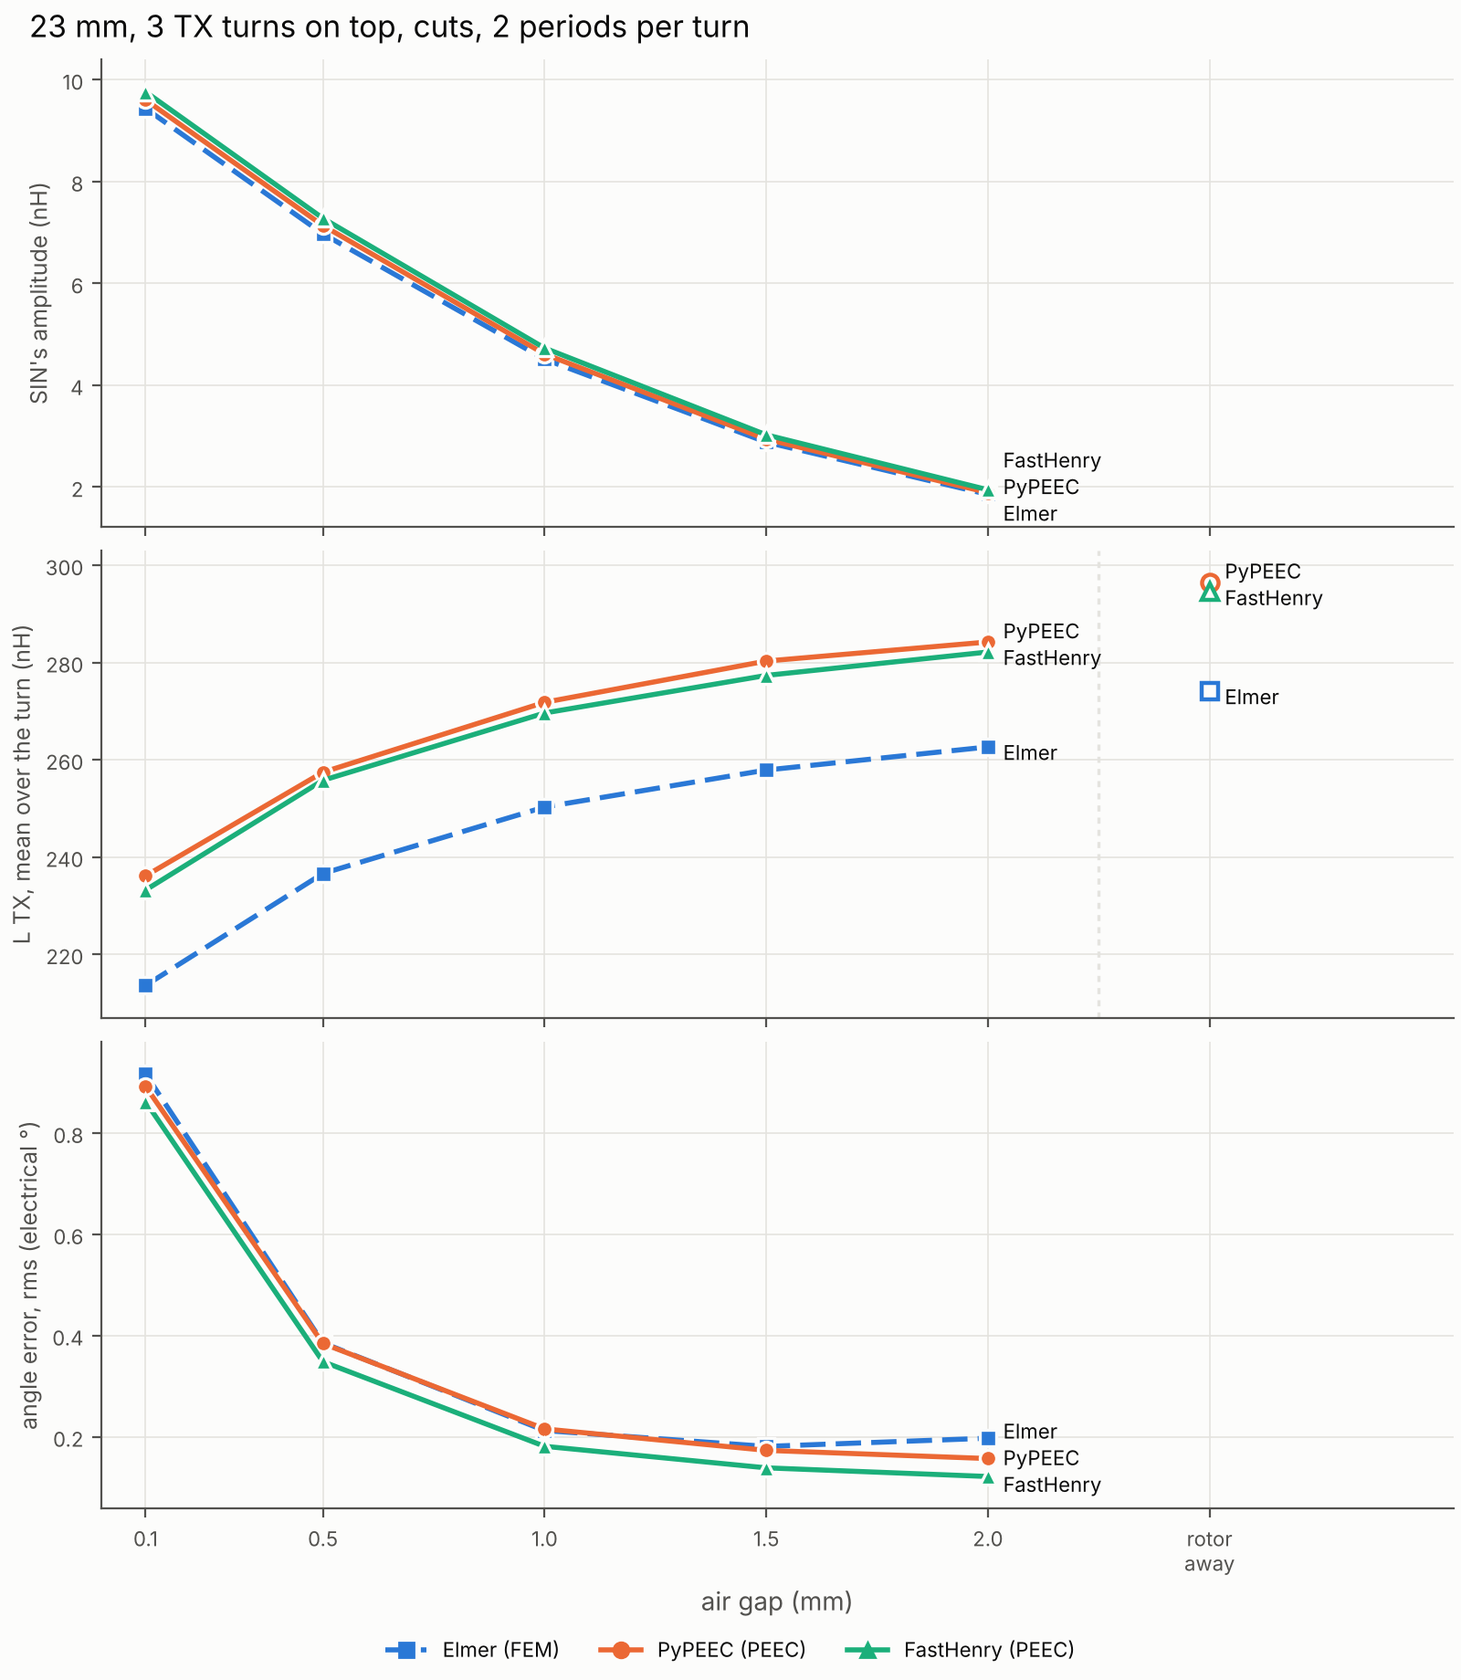
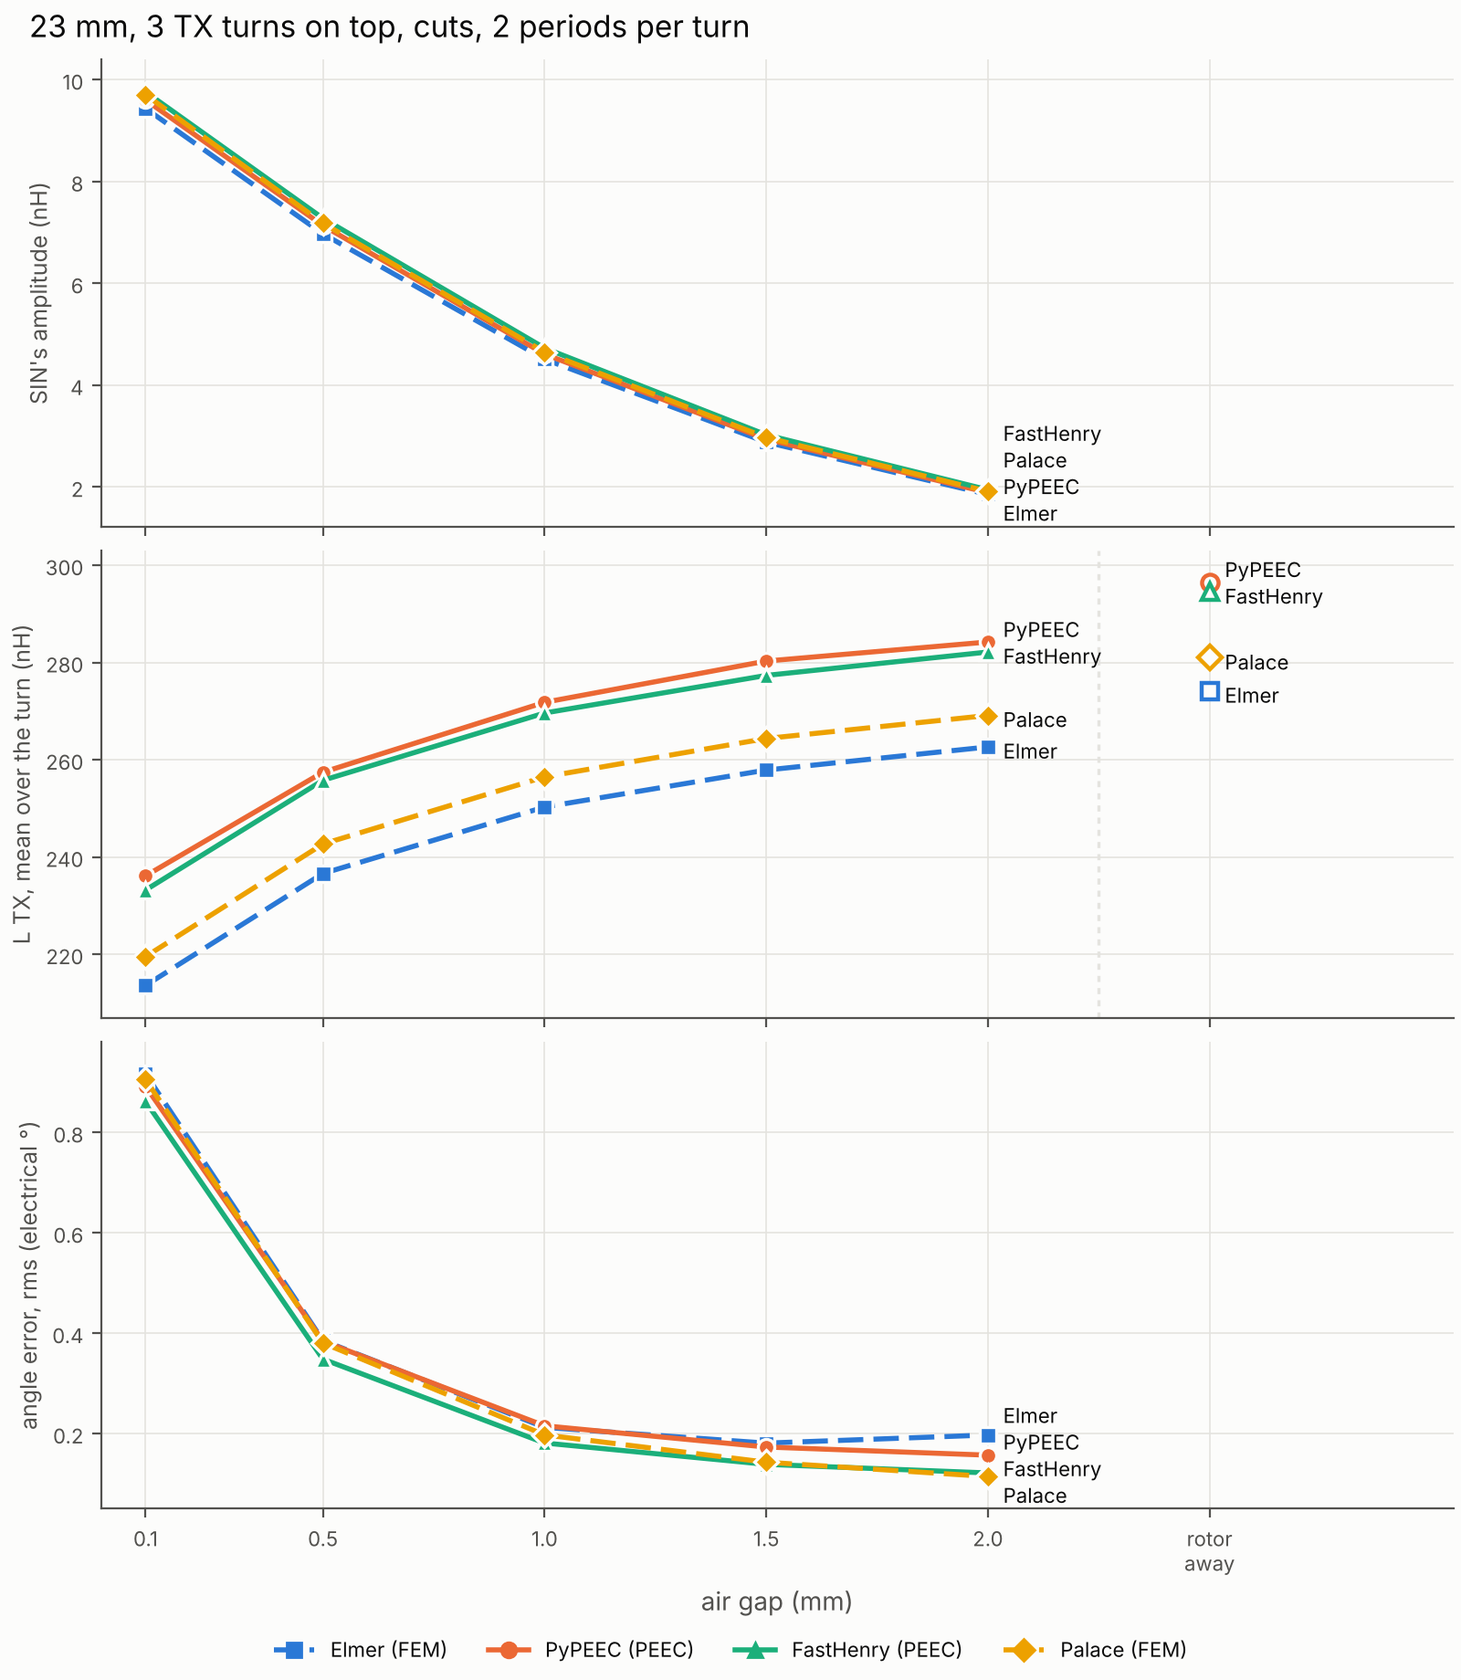
Add Palace's S0d2: every solver has now finished all six boards

diff --git a/README.md b/README.md
@@ -7,7 +7,7 @@ KESE exports a KiCad board's copper and stackup for electromagnetic solvers. Fou
 | Elmer | FEM (finite elements, the A-V eddy-current formulation) | `Elmer_Integration` | 6 | 280 | 280 |
 | PyPEEC | PEEC (partial elements on voxels, FFT-accelerated) | `PyPEEC_Integration` | 6 | 280 | 280 |
 | FastHenry | PEEC (partial elements on filaments, direct solve) | `FastHenry_Integration` | 6 | 280 | 280 |
-| Palace | FEM (finite elements, the frequency-domain Maxwell solver) | `Palace_Integration` | 5 (still solving; 25 of 30 gaps) | 200 | 200 |
+| Palace | FEM (finite elements, the frequency-domain Maxwell solver) | `Palace_Integration` | 6 | 280 | 280 |
 | Theory | hand formulas: Neumann's integral over the TX copper, its DC resistance ([Formulas](#formulas)) | this one (`scripts/theory.py`) | 6 | — | — |
 
 Each integration branch keeps its own solver's results, settings and checks, and knows nothing of the others. The numbers here are read from those branches unchanged by `scripts/collect.py`. The two FEM solvers mesh the air around the copper and close it at an outer boundary; the two PEEC solvers model only the copper, and the air's field comes from the free-space formulas, with no mesh and no boundary.
@@ -21,7 +21,7 @@ This page shows one board, S0d2_1x_OD23_2L_tiny_TX3top_Cut. Every board has its 
 | [S0_1x_OD22_2L_tiny_TXtop](Comparisons/S0_1x_OD22_2L_tiny_TXtop.md) | OD22 TXtop: the TX two turns on the top layer around S0's own RX coils, the board grown to 22.2 mm | 3.26 / 3.38 / 3.43 / 3.37 | 143.2 to 147.4 |
 | [S0_1x_OD22_2L_tiny_TXtop_Cut](Comparisons/S0_1x_OD22_2L_tiny_TXtop_Cut.md) | OD22 Cut: the 22 mm board with SIN and COS opened by a 0.2 mm cut in a top trace instead of a left-out via | 3.26 / 3.34 / 3.40 / 3.37 | 143.2 to 147.4 |
 | [S0_1x_OD23_2L_tiny_TX3top_Cut](Comparisons/S0_1x_OD23_2L_tiny_TX3top_Cut.md) | OD23 Cut: the TX three turns on the top layer around S0's RX coils, 23.4 mm, opened by cuts | 4.88 / 4.98 / 5.07 / 5.03 | 289.2 to 295.6 |
-| [S0d2_1x_OD23_2L_tiny_TX3top_Cut](Comparisons/S0d2_1x_OD23_2L_tiny_TX3top_Cut.md) | S0d2: the three-turn 23 mm board with two electrical periods per turn and a rotor of two sectors, so the curves repeat every 180°; solved at 16 angles over the whole turn | 4.51 / 4.61 / 4.73 / — | 289.2 to 295.6 |
+| [S0d2_1x_OD23_2L_tiny_TX3top_Cut](Comparisons/S0d2_1x_OD23_2L_tiny_TX3top_Cut.md) | S0d2: the three-turn 23 mm board with two electrical periods per turn and a rotor of two sectors, so the curves repeat every 180°; solved at 16 angles over the whole turn | 4.51 / 4.61 / 4.73 / 4.65 | 289.2 to 295.6 |
 
 There is no hand formula for the SIN amplitude; the Theory column gives the range L TX must lie in with the rotor away (see [Formulas](#formulas)).
 
@@ -34,20 +34,21 @@ There is no hand formula for the SIN amplitude; the Theory column gives the rang
 | Elmer | 5 | 80 | 80 |
 | PyPEEC | 5 | 80 | 80 |
 | FastHenry | 5 | 80 | 80 |
-| Palace | 0 (still solving) | 0 | 0 |
+| Palace | 5 | 80 | 80 |
 | Theory | worked out from the copper by hand formulas, nothing to solve | — | — |
 
 Against FastHenry, the yardstick (the closest to the reference on the proof boards):
 
 - **Elmer** (FEM): the coupling (SIN's and COS's amplitude) is 4.3 % under FastHenry's on average over the 5 gaps both have finished (−4.8 to −3.3 %); L TX is 7.4 % under (−8.4 to −6.9 %); the rms angle error is within 0.08° of FastHenry's (electrical degrees).
 - **PyPEEC** (PEEC): the coupling (SIN's and COS's amplitude) is 2.2 % under FastHenry's on average over the 5 gaps both have finished (−2.8 to −1.4 %); L TX is 0.9 % over (+0.6 to +1.3 %); the rms angle error is within 0.04° of FastHenry's (electrical degrees).
-- **Palace** has not finished a gap of this board yet; it is still solving.
+- **Palace** (FEM): the coupling (SIN's and COS's amplitude) is 1.4 % under FastHenry's on average over the 5 gaps both have finished (−1.7 to −0.6 %); L TX is 5.0 % under (−5.9 to −4.6 %); the rms angle error is within 0.04° of FastHenry's (electrical degrees).
 
 Against the hand values (the Theory rows, worked out in [Formulas](#formulas)): with the rotor away, L TX has to lie between about 289.2 nH (all the current at the copper's surface) and 295.6 nH (its DC value, the most it can be at any frequency), and R TX can be no less than its DC resistance, 379.4 mΩ.
 
 - **Elmer**: L TX with the rotor away 274.2 nH, 5.2 % under the high-frequency limit; R TX 438 mΩ, 15.3 % over its DC value.
 - **PyPEEC**: L TX with the rotor away 296.4 nH, 0.3 % over the DC value, the most it can be; R TX 475 mΩ, 25.2 % over its DC value.
 - **FastHenry**: L TX with the rotor away 294.6 nH, inside the hand values; R TX 413 mΩ, 8.9 % over its DC value.
+- **Palace**: L TX with the rotor away 281.0 nH, 2.8 % under the high-frequency limit; R TX 445 mΩ, 17.2 % over its DC value.
 
 ![S0d2 against the air gap](charts/S0d2_1x_OD23_2L_tiny_TX3top_Cut.webp)
 
@@ -63,6 +64,7 @@ Against the hand values (the Theory rows, worked out in [Formulas](#formulas)): 
 | Elmer | 4.511 | 4.514 | 250.3 | 274.2 | 460 | 0.212 | 0.440 | 16 |
 | PyPEEC | 4.613 | 4.627 | 271.8 | 296.4 | 496 | 0.216 | 0.434 | 16 |
 | FastHenry | 4.730 | 4.736 | 269.6 | 294.6 | 436 | 0.181 | 0.331 | 16 |
+| Palace | 4.652 | 4.657 | 256.5 | 281.0 | 468 | 0.198 | 0.355 | 16 |
 
 ### Every air gap
 
@@ -70,65 +72,65 @@ In the Theory column: L TX can be no more than its DC value and R TX no less tha
 
 **SIN's amplitude (nH)**
 
-| Air gap | Elmer | PyPEEC | FastHenry | Theory |
-|---|---|---|---|---|
-| 0.1 mm | 9.436 | 9.604 | 9.762 | — |
-| 0.5 mm | 6.974 | 7.137 | 7.279 | — |
-| 1 mm | 4.511 | 4.613 | 4.730 | — |
-| 1.5 mm | 2.882 | 2.940 | 3.026 | — |
-| 2 mm | 1.856 | 1.891 | 1.946 | — |
+| Air gap | Elmer | PyPEEC | FastHenry | Palace | Theory |
+|---|---|---|---|---|---|
+| 0.1 mm | 9.436 | 9.604 | 9.762 | 9.706 | — |
+| 0.5 mm | 6.974 | 7.137 | 7.279 | 7.183 | — |
+| 1 mm | 4.511 | 4.613 | 4.730 | 4.652 | — |
+| 1.5 mm | 2.882 | 2.940 | 3.026 | 2.973 | — |
+| 2 mm | 1.856 | 1.891 | 1.946 | 1.915 | — |
 
 **COS's amplitude (nH)**
 
-| Air gap | Elmer | PyPEEC | FastHenry | Theory |
-|---|---|---|---|---|
-| 0.1 mm | 9.437 | 9.625 | 9.766 | — |
-| 0.5 mm | 6.976 | 7.157 | 7.285 | — |
-| 1 mm | 4.514 | 4.627 | 4.736 | — |
-| 1.5 mm | 2.884 | 2.950 | 3.030 | — |
-| 2 mm | 1.857 | 1.898 | 1.950 | — |
+| Air gap | Elmer | PyPEEC | FastHenry | Palace | Theory |
+|---|---|---|---|---|---|
+| 0.1 mm | 9.437 | 9.625 | 9.766 | 9.706 | — |
+| 0.5 mm | 6.976 | 7.157 | 7.285 | 7.188 | — |
+| 1 mm | 4.514 | 4.627 | 4.736 | 4.657 | — |
+| 1.5 mm | 2.884 | 2.950 | 3.030 | 2.978 | — |
+| 2 mm | 1.857 | 1.898 | 1.950 | 1.918 | — |
 
 **L TX, mean over the turn (nH)**
 
-| Air gap | Elmer | PyPEEC | FastHenry | Theory |
-|---|---|---|---|---|
-| 0.1 mm | 213.6 | 236.1 | 233.2 | ≤ 295.6 |
-| 0.5 mm | 236.6 | 257.4 | 255.8 | ≤ 295.6 |
-| 1 mm | 250.3 | 271.8 | 269.6 | ≤ 295.6 |
-| 1.5 mm | 257.9 | 280.3 | 277.4 | ≤ 295.6 |
-| 2 mm | 262.6 | 284.2 | 282.2 | ≤ 295.6 |
+| Air gap | Elmer | PyPEEC | FastHenry | Palace | Theory |
+|---|---|---|---|---|---|
+| 0.1 mm | 213.6 | 236.1 | 233.2 | 219.5 | ≤ 295.6 |
+| 0.5 mm | 236.6 | 257.4 | 255.8 | 242.7 | ≤ 295.6 |
+| 1 mm | 250.3 | 271.8 | 269.6 | 256.5 | ≤ 295.6 |
+| 1.5 mm | 257.9 | 280.3 | 277.4 | 264.4 | ≤ 295.6 |
+| 2 mm | 262.6 | 284.2 | 282.2 | 269.1 | ≤ 295.6 |
 
 **R TX, mean over the turn (mΩ)**
 
-| Air gap | Elmer | PyPEEC | FastHenry | Theory |
-|---|---|---|---|---|
-| 0.1 mm | 509 | 540 | 475 | ≥ 379.4 |
-| 0.5 mm | 473 | 508 | 447 | ≥ 379.4 |
-| 1 mm | 460 | 496 | 436 | ≥ 379.4 |
-| 1.5 mm | 453 | 490 | 430 | ≥ 379.4 |
-| 2 mm | 449 | 486 | 426 | ≥ 379.4 |
+| Air gap | Elmer | PyPEEC | FastHenry | Palace | Theory |
+|---|---|---|---|---|---|
+| 0.1 mm | 509 | 540 | 475 | 517 | ≥ 379.4 |
+| 0.5 mm | 473 | 508 | 447 | 481 | ≥ 379.4 |
+| 1 mm | 460 | 496 | 436 | 468 | ≥ 379.4 |
+| 1.5 mm | 453 | 490 | 430 | 462 | ≥ 379.4 |
+| 2 mm | 449 | 486 | 426 | 457 | ≥ 379.4 |
 
 **Angle error, rms (electrical °)**
 
-| Air gap | Elmer | PyPEEC | FastHenry | Theory |
-|---|---|---|---|---|
-| 0.1 mm | 0.917 | 0.892 | 0.862 | 0 |
-| 0.5 mm | 0.386 | 0.384 | 0.349 | 0 |
-| 1 mm | 0.212 | 0.216 | 0.181 | 0 |
-| 1.5 mm | 0.181 | 0.173 | 0.139 | 0 |
-| 2 mm | 0.197 | 0.157 | 0.122 | 0 |
+| Air gap | Elmer | PyPEEC | FastHenry | Palace | Theory |
+|---|---|---|---|---|---|
+| 0.1 mm | 0.917 | 0.892 | 0.862 | 0.906 | 0 |
+| 0.5 mm | 0.386 | 0.384 | 0.349 | 0.381 | 0 |
+| 1 mm | 0.212 | 0.216 | 0.181 | 0.198 | 0 |
+| 1.5 mm | 0.181 | 0.173 | 0.139 | 0.143 | 0 |
+| 2 mm | 0.197 | 0.157 | 0.122 | 0.115 | 0 |
 
 ### Against FastHenry, gap by gap
 
 Each solver's value over FastHenry's at the same gap: SIN's amplitude, and in brackets L TX. In the Theory column, in brackets, the most L TX can be (its DC value) over FastHenry's L TX; there is no hand value for the amplitude.
 
-| Air gap | Elmer | PyPEEC | Theory |
-|---|---|---|---|
-| 0.1 mm | 0.967 (0.916) | 0.984 (1.013) | — (≤ 1.268) |
-| 0.5 mm | 0.958 (0.925) | 0.981 (1.006) | — (≤ 1.156) |
-| 1 mm | 0.954 (0.928) | 0.975 (1.008) | — (≤ 1.096) |
-| 1.5 mm | 0.953 (0.930) | 0.972 (1.011) | — (≤ 1.066) |
-| 2 mm | 0.953 (0.931) | 0.972 (1.007) | — (≤ 1.048) |
+| Air gap | Elmer | PyPEEC | Palace | Theory |
+|---|---|---|---|---|
+| 0.1 mm | 0.967 (0.916) | 0.984 (1.013) | 0.994 (0.941) | — (≤ 1.268) |
+| 0.5 mm | 0.958 (0.925) | 0.981 (1.006) | 0.987 (0.949) | — (≤ 1.156) |
+| 1 mm | 0.954 (0.928) | 0.975 (1.008) | 0.983 (0.951) | — (≤ 1.096) |
+| 1.5 mm | 0.953 (0.930) | 0.972 (1.011) | 0.983 (0.953) | — (≤ 1.066) |
+| 2 mm | 0.953 (0.931) | 0.972 (1.007) | 0.984 (0.954) | — (≤ 1.048) |
 
 ### The hand values and the generator's estimates
 
@@ -141,6 +143,7 @@ The Theory row is worked out from the TX copper alone (see [Formulas](#formulas)
 | Elmer | 274.2 | 5.2 % under the high-frequency limit | −6.1 % | 213.6 | 250.3 | 438 |
 | PyPEEC | 296.4 | 0.3 % over the DC value, the most it can be | +1.5 % | 236.1 | 271.8 | 475 |
 | FastHenry | 294.6 | inside the hand values | +0.9 % | 233.2 | 269.6 | 413 |
+| Palace | 281.0 | 2.8 % under the high-frequency limit | −3.8 % | 219.5 | 256.5 | 445 |
 
 ### Time and memory
 
@@ -151,9 +154,10 @@ Each branch records the wall time and the peak memory of every solve. They all r
 | Elmer | 382 | 217 to 583 | 13.3 |
 | PyPEEC | 305 | 184 to 678 | 1.7 to 3.5 |
 | FastHenry | 245 | 212 to 269 | 1.1 |
+| Palace | 214 | 141 to 253 | 8.0 to 12.9 |
 | Theory | 44 (once for the board: both of Neumann's sums) | — | 2.0 |
 
-A receiver whose plus terminal sits on the other side in one branch comes out turned over; here Elmer COS, PyPEEC COS is turned back to match FastHenry. Amplitudes and angle errors are the same either way.
+A receiver whose plus terminal sits on the other side in one branch comes out turned over; here Elmer COS, Palace COS, Palace SIN, PyPEEC COS is turned back to match FastHenry. Amplitudes and angle errors are the same either way.
 
 ## The proof boards
 

diff --git a/Comparisons/S0d2_1x_OD23_2L_tiny_TX3top_Cut.md b/Comparisons/S0d2_1x_OD23_2L_tiny_TX3top_Cut.md
@@ -9,20 +9,21 @@
 | Elmer | 5 | 80 | 80 |
 | PyPEEC | 5 | 80 | 80 |
 | FastHenry | 5 | 80 | 80 |
-| Palace | 0 (still solving) | 0 | 0 |
+| Palace | 5 | 80 | 80 |
 | Theory | worked out from the copper by hand formulas, nothing to solve | — | — |
 
 Against FastHenry, the yardstick (the closest to the reference on the proof boards):
 
 - **Elmer** (FEM): the coupling (SIN's and COS's amplitude) is 4.3 % under FastHenry's on average over the 5 gaps both have finished (−4.8 to −3.3 %); L TX is 7.4 % under (−8.4 to −6.9 %); the rms angle error is within 0.08° of FastHenry's (electrical degrees).
 - **PyPEEC** (PEEC): the coupling (SIN's and COS's amplitude) is 2.2 % under FastHenry's on average over the 5 gaps both have finished (−2.8 to −1.4 %); L TX is 0.9 % over (+0.6 to +1.3 %); the rms angle error is within 0.04° of FastHenry's (electrical degrees).
-- **Palace** has not finished a gap of this board yet; it is still solving.
+- **Palace** (FEM): the coupling (SIN's and COS's amplitude) is 1.4 % under FastHenry's on average over the 5 gaps both have finished (−1.7 to −0.6 %); L TX is 5.0 % under (−5.9 to −4.6 %); the rms angle error is within 0.04° of FastHenry's (electrical degrees).
 
 Against the hand values (the Theory rows, worked out in [Formulas](#formulas)): with the rotor away, L TX has to lie between about 289.2 nH (all the current at the copper's surface) and 295.6 nH (its DC value, the most it can be at any frequency), and R TX can be no less than its DC resistance, 379.4 mΩ.
 
 - **Elmer**: L TX with the rotor away 274.2 nH, 5.2 % under the high-frequency limit; R TX 438 mΩ, 15.3 % over its DC value.
 - **PyPEEC**: L TX with the rotor away 296.4 nH, 0.3 % over the DC value, the most it can be; R TX 475 mΩ, 25.2 % over its DC value.
 - **FastHenry**: L TX with the rotor away 294.6 nH, inside the hand values; R TX 413 mΩ, 8.9 % over its DC value.
+- **Palace**: L TX with the rotor away 281.0 nH, 2.8 % under the high-frequency limit; R TX 445 mΩ, 17.2 % over its DC value.
 
 ![S0d2 against the air gap](../charts/S0d2_1x_OD23_2L_tiny_TX3top_Cut.webp)
 
@@ -38,6 +39,7 @@ Against the hand values (the Theory rows, worked out in [Formulas](#formulas)): 
 | Elmer | 4.511 | 4.514 | 250.3 | 274.2 | 460 | 0.212 | 0.440 | 16 |
 | PyPEEC | 4.613 | 4.627 | 271.8 | 296.4 | 496 | 0.216 | 0.434 | 16 |
 | FastHenry | 4.730 | 4.736 | 269.6 | 294.6 | 436 | 0.181 | 0.331 | 16 |
+| Palace | 4.652 | 4.657 | 256.5 | 281.0 | 468 | 0.198 | 0.355 | 16 |
 
 ## Every air gap
 
@@ -45,65 +47,65 @@ In the Theory column: L TX can be no more than its DC value and R TX no less tha
 
 **SIN's amplitude (nH)**
 
-| Air gap | Elmer | PyPEEC | FastHenry | Theory |
-|---|---|---|---|---|
-| 0.1 mm | 9.436 | 9.604 | 9.762 | — |
-| 0.5 mm | 6.974 | 7.137 | 7.279 | — |
-| 1 mm | 4.511 | 4.613 | 4.730 | — |
-| 1.5 mm | 2.882 | 2.940 | 3.026 | — |
-| 2 mm | 1.856 | 1.891 | 1.946 | — |
+| Air gap | Elmer | PyPEEC | FastHenry | Palace | Theory |
+|---|---|---|---|---|---|
+| 0.1 mm | 9.436 | 9.604 | 9.762 | 9.706 | — |
+| 0.5 mm | 6.974 | 7.137 | 7.279 | 7.183 | — |
+| 1 mm | 4.511 | 4.613 | 4.730 | 4.652 | — |
+| 1.5 mm | 2.882 | 2.940 | 3.026 | 2.973 | — |
+| 2 mm | 1.856 | 1.891 | 1.946 | 1.915 | — |
 
 **COS's amplitude (nH)**
 
-| Air gap | Elmer | PyPEEC | FastHenry | Theory |
-|---|---|---|---|---|
-| 0.1 mm | 9.437 | 9.625 | 9.766 | — |
-| 0.5 mm | 6.976 | 7.157 | 7.285 | — |
-| 1 mm | 4.514 | 4.627 | 4.736 | — |
-| 1.5 mm | 2.884 | 2.950 | 3.030 | — |
-| 2 mm | 1.857 | 1.898 | 1.950 | — |
+| Air gap | Elmer | PyPEEC | FastHenry | Palace | Theory |
+|---|---|---|---|---|---|
+| 0.1 mm | 9.437 | 9.625 | 9.766 | 9.706 | — |
+| 0.5 mm | 6.976 | 7.157 | 7.285 | 7.188 | — |
+| 1 mm | 4.514 | 4.627 | 4.736 | 4.657 | — |
+| 1.5 mm | 2.884 | 2.950 | 3.030 | 2.978 | — |
+| 2 mm | 1.857 | 1.898 | 1.950 | 1.918 | — |
 
 **L TX, mean over the turn (nH)**
 
-| Air gap | Elmer | PyPEEC | FastHenry | Theory |
-|---|---|---|---|---|
-| 0.1 mm | 213.6 | 236.1 | 233.2 | ≤ 295.6 |
-| 0.5 mm | 236.6 | 257.4 | 255.8 | ≤ 295.6 |
-| 1 mm | 250.3 | 271.8 | 269.6 | ≤ 295.6 |
-| 1.5 mm | 257.9 | 280.3 | 277.4 | ≤ 295.6 |
-| 2 mm | 262.6 | 284.2 | 282.2 | ≤ 295.6 |
+| Air gap | Elmer | PyPEEC | FastHenry | Palace | Theory |
+|---|---|---|---|---|---|
+| 0.1 mm | 213.6 | 236.1 | 233.2 | 219.5 | ≤ 295.6 |
+| 0.5 mm | 236.6 | 257.4 | 255.8 | 242.7 | ≤ 295.6 |
+| 1 mm | 250.3 | 271.8 | 269.6 | 256.5 | ≤ 295.6 |
+| 1.5 mm | 257.9 | 280.3 | 277.4 | 264.4 | ≤ 295.6 |
+| 2 mm | 262.6 | 284.2 | 282.2 | 269.1 | ≤ 295.6 |
 
 **R TX, mean over the turn (mΩ)**
 
-| Air gap | Elmer | PyPEEC | FastHenry | Theory |
-|---|---|---|---|---|
-| 0.1 mm | 509 | 540 | 475 | ≥ 379.4 |
-| 0.5 mm | 473 | 508 | 447 | ≥ 379.4 |
-| 1 mm | 460 | 496 | 436 | ≥ 379.4 |
-| 1.5 mm | 453 | 490 | 430 | ≥ 379.4 |
-| 2 mm | 449 | 486 | 426 | ≥ 379.4 |
+| Air gap | Elmer | PyPEEC | FastHenry | Palace | Theory |
+|---|---|---|---|---|---|
+| 0.1 mm | 509 | 540 | 475 | 517 | ≥ 379.4 |
+| 0.5 mm | 473 | 508 | 447 | 481 | ≥ 379.4 |
+| 1 mm | 460 | 496 | 436 | 468 | ≥ 379.4 |
+| 1.5 mm | 453 | 490 | 430 | 462 | ≥ 379.4 |
+| 2 mm | 449 | 486 | 426 | 457 | ≥ 379.4 |
 
 **Angle error, rms (electrical °)**
 
-| Air gap | Elmer | PyPEEC | FastHenry | Theory |
-|---|---|---|---|---|
-| 0.1 mm | 0.917 | 0.892 | 0.862 | 0 |
-| 0.5 mm | 0.386 | 0.384 | 0.349 | 0 |
-| 1 mm | 0.212 | 0.216 | 0.181 | 0 |
-| 1.5 mm | 0.181 | 0.173 | 0.139 | 0 |
-| 2 mm | 0.197 | 0.157 | 0.122 | 0 |
+| Air gap | Elmer | PyPEEC | FastHenry | Palace | Theory |
+|---|---|---|---|---|---|
+| 0.1 mm | 0.917 | 0.892 | 0.862 | 0.906 | 0 |
+| 0.5 mm | 0.386 | 0.384 | 0.349 | 0.381 | 0 |
+| 1 mm | 0.212 | 0.216 | 0.181 | 0.198 | 0 |
+| 1.5 mm | 0.181 | 0.173 | 0.139 | 0.143 | 0 |
+| 2 mm | 0.197 | 0.157 | 0.122 | 0.115 | 0 |
 
 ## Against FastHenry, gap by gap
 
 Each solver's value over FastHenry's at the same gap: SIN's amplitude, and in brackets L TX. In the Theory column, in brackets, the most L TX can be (its DC value) over FastHenry's L TX; there is no hand value for the amplitude.
 
-| Air gap | Elmer | PyPEEC | Theory |
-|---|---|---|---|
-| 0.1 mm | 0.967 (0.916) | 0.984 (1.013) | — (≤ 1.268) |
-| 0.5 mm | 0.958 (0.925) | 0.981 (1.006) | — (≤ 1.156) |
-| 1 mm | 0.954 (0.928) | 0.975 (1.008) | — (≤ 1.096) |
-| 1.5 mm | 0.953 (0.930) | 0.972 (1.011) | — (≤ 1.066) |
-| 2 mm | 0.953 (0.931) | 0.972 (1.007) | — (≤ 1.048) |
+| Air gap | Elmer | PyPEEC | Palace | Theory |
+|---|---|---|---|---|
+| 0.1 mm | 0.967 (0.916) | 0.984 (1.013) | 0.994 (0.941) | — (≤ 1.268) |
+| 0.5 mm | 0.958 (0.925) | 0.981 (1.006) | 0.987 (0.949) | — (≤ 1.156) |
+| 1 mm | 0.954 (0.928) | 0.975 (1.008) | 0.983 (0.951) | — (≤ 1.096) |
+| 1.5 mm | 0.953 (0.930) | 0.972 (1.011) | 0.983 (0.953) | — (≤ 1.066) |
+| 2 mm | 0.953 (0.931) | 0.972 (1.007) | 0.984 (0.954) | — (≤ 1.048) |
 
 ## The hand values and the generator's estimates
 
@@ -116,6 +118,7 @@ The Theory row is worked out from the TX copper alone (see [Formulas](#formulas)
 | Elmer | 274.2 | 5.2 % under the high-frequency limit | −6.1 % | 213.6 | 250.3 | 438 |
 | PyPEEC | 296.4 | 0.3 % over the DC value, the most it can be | +1.5 % | 236.1 | 271.8 | 475 |
 | FastHenry | 294.6 | inside the hand values | +0.9 % | 233.2 | 269.6 | 413 |
+| Palace | 281.0 | 2.8 % under the high-frequency limit | −3.8 % | 219.5 | 256.5 | 445 |
 
 ## Time and memory
 
@@ -126,9 +129,10 @@ Each branch records the wall time and the peak memory of every solve. They all r
 | Elmer | 382 | 217 to 583 | 13.3 |
 | PyPEEC | 305 | 184 to 678 | 1.7 to 3.5 |
 | FastHenry | 245 | 212 to 269 | 1.1 |
+| Palace | 214 | 141 to 253 | 8.0 to 12.9 |
 | Theory | 44 (once for the board: both of Neumann's sums) | — | 2.0 |
 
-A receiver whose plus terminal sits on the other side in one branch comes out turned over; here Elmer COS, PyPEEC COS is turned back to match FastHenry. Amplitudes and angle errors are the same either way.
+A receiver whose plus terminal sits on the other side in one branch comes out turned over; here Elmer COS, Palace COS, Palace SIN, PyPEEC COS is turned back to match FastHenry. Amplitudes and angle errors are the same either way.
 
 ## Formulas
 
